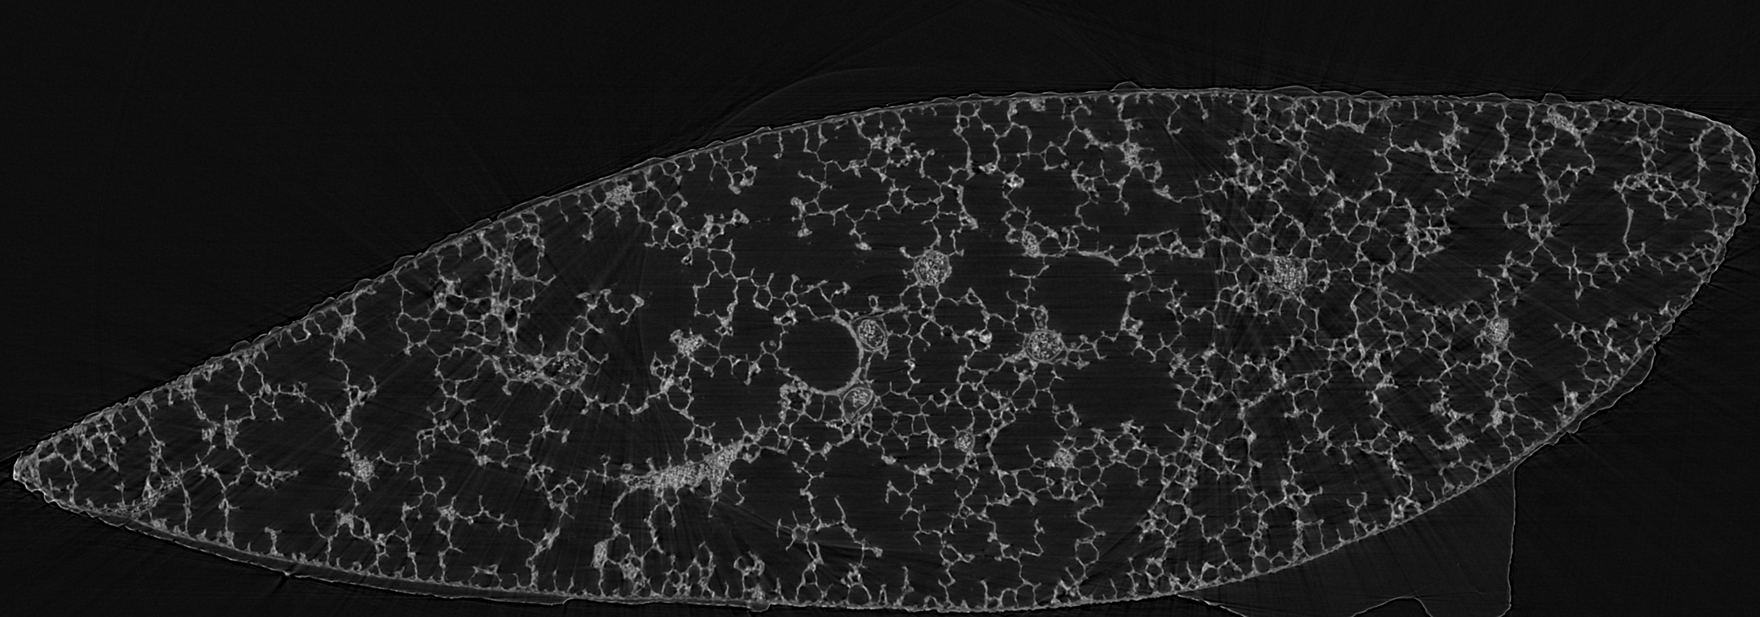
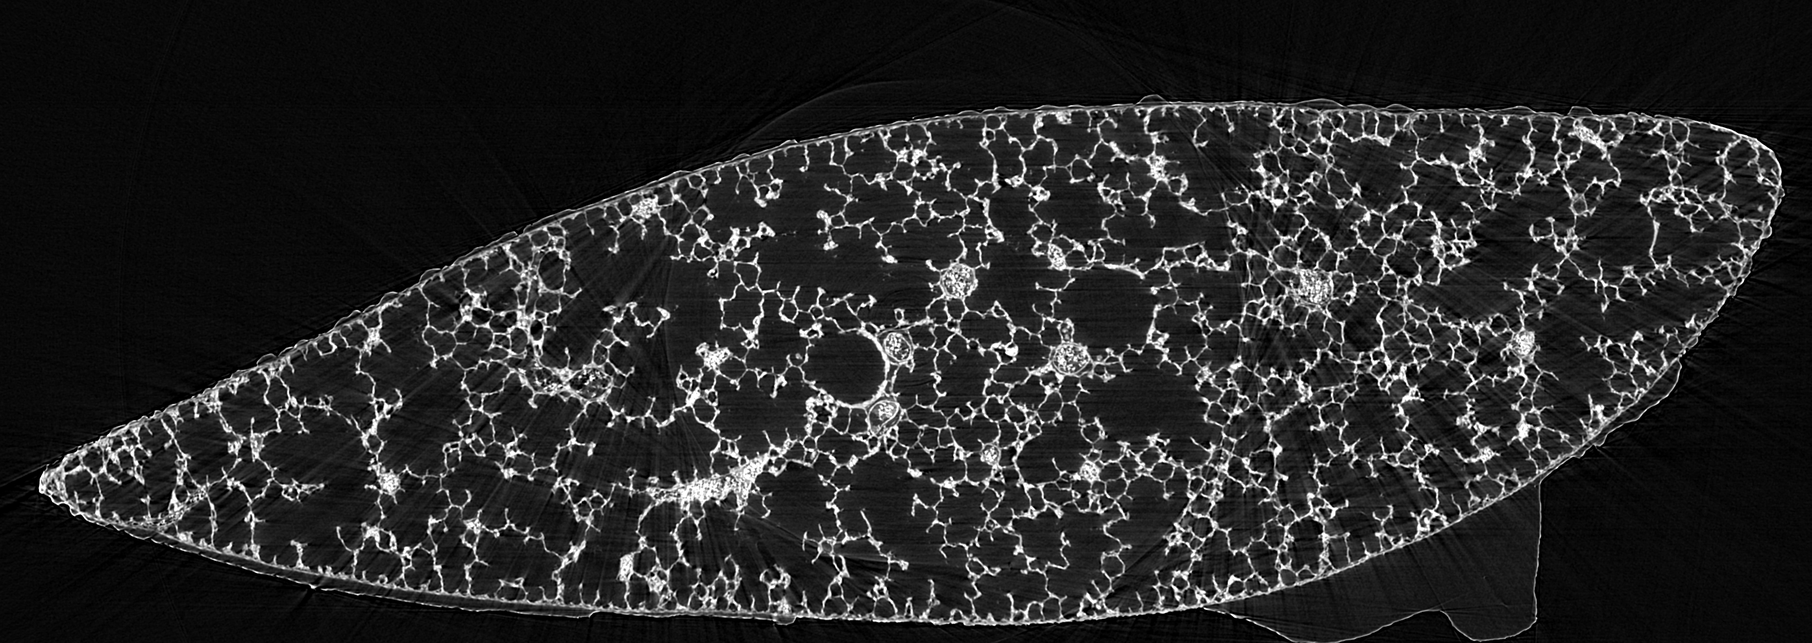
- MergedProjections.tex-Figure now includes overlapping regions in projections and TikZ-drawn circles to see the overlap in the reconstructed slice
git-svn-id: http://code.ana.unibe.ch/svn/WideFieldScanPaper@154 1e09dd5d-36e2-4d60-b258-626281e6a704

Changed region(s): [[0.0, 0.1218, 1.0, 1.0], [0.8053, 0.9443, 0.8673, 1.0], [0.7743, 0.9443, 0.8053, 0.9748]]

diff --git a/wfs-materials-and-methods.tex b/wfs-materials-and-methods.tex
@@ -58,7 +58,7 @@ The full work flow from image acquisition to tomographic dataset on the disk con
 \label{subsec:covering a broad fov}
 For parallel beam geometry, tomographic images are obtained by rotating the sample over \SI{180}{\degree} and acquiring images equidistantly between \SI{0}{\degree} and \SI{180}{\degree}, as shown in figure~\ref{subfig:scanning-possibilities}. After reconstruction the width of the image corresponds to the FOV of the camera.
 
-If the sample to be imaged is larger than the available FOV of the camera (up to twice as large as the FOV), a \SI{360}{\degree}-scan is performed. Projections are obtained over a full rotation of the sample, while the sample is positioned in front of the camera in such a way that it only covers half the FOV of the detector. After acquisition of the projection images, half of the dataset has to be flipped and the projections at position $P_{x}$ and $P_{x+\SI{180}{\degree}}$ are stitched together to projection images covering two times the FOV of the camera.
+If the sample to be imaged is larger than the available FOV of the camera (up to twice as large as the FOV), a \SI{360}{\degree}-scan is performed. Projections are obtained over a full rotation of the sample, while the sample is positioned in front of the camera in such a way that it only covers half the FOV of the detector. After acquisition of the projection images, half of the dataset has to be flipped and the projections at position $P_{x}$ and \[P_{x+\SI{180}{\degree}}\] are stitched together to projection images covering two times the FOV of the camera.
 
 \begin{figure*}
 	\noindent\makebox[\textwidth]{%
@@ -110,7 +110,7 @@ To be able to reconstruct the sample, we need to stitch the individual sets of p
 \cbstart
 Since the total acquisition time per sample scales with the total amount of recorded projections, such an oversampling is undesired, since the time spent recording unnecessary projections is essentially wasted during precious beam-time shifts. To avoid this, acquisition protocols with varying amount of projections for each of the three subscans have been designed, so the scanning time per sample can be reduced compared to a gold standard scan.
 
-As a consequence from the differing amount of projections, we needed to devise a protocols which would facilitate the interpolation and merging of the projections from each subscan. Several protocols have been defined where the amount of projections from the inner ($N_{inner}$) to the outer subscans ($N_{outer}$ is always a multiple of two:$\frac{N_{outer}}{N_{inner}} \bmod 2 = 0$.
+As a consequence from the differing amount of projections, we needed to devise a protocols which would facilitate the interpolation and merging of the projections from each subscan. Several protocols have been defined where the amount of projections from the inner ($N_{inner}$) to the outer subscans ($N_{outer}$ is always a multiple of two:\[\frac{N_{outer}}{N_{inner}} \bmod 2 = 0\].
 
 This approach facilitates the merging of the different subscans in such a way that we can stitch several projections from the inner subscan with projections from the outer subscans. If the amount of projections would not be a multiple of two, such a stitching would introduce additional processing steps to correctly stitch the projections or interpolate intermediate projections. \cbend Figure \ref{fig:amount of projections} shows how the projections from the different subscans relate to each other in the more complex case. In this case we would acquire 1500 projections for the central and two times 3000 projections for the two ring-scans to fully satisfy the sampling theorem while not oversampling the central part of the FOV. 
 
@@ -129,7 +129,7 @@ This approach facilitates the merging of the different subscans in such a way th
 \subsubsection{Generation of multiple scanning protocols}
 To be able to further reduce the total scanning time, we developed different scanning protocols, which all relate to a gold standard protocol. Such a gold standard scan would cover the desired FOV while fulfilling the sampling theorem, as shown in figure~\ref{subfig:fovneed}. For this example we would like to achieve a FOV of 3072$\times$3072 pixels. The dark gray circle shown in aforementioned figure is the FOV that can be fully covered, the rest of the slice in light grey would be either missing or show artifacts arising from partial volume effects, depending on the chosen reconstruction algorithm. To cover this desired FOV without a standard scan obtained from a detector with the size of 1024 pixels, nine independent scans would be needed. Acquiring nine independent scans would show exactly the same ration of coverage vs.\ potentially missing parts, but some of the missing parts would be lying inside the desired FOV, which can be seen in the light gray parts figure~\ref{subfig:goldstandard} inside the ring covering the desired FOV. Nonetheless, this is the gold standard, we defined as standard protocol A shown in table~\ref{tab:projections}. Figure~\ref{subfig:protocolb} shows how the desired FOV can be covered with a wide-field scan obtained from merged projections as described above. No missing parts arising from partial volume effects are lying inside the desired FOV.
 
-To fully satisfy the sampling theorem for a scan with the detector width $D$ we need to acquire an amount of projections $P=D\frac{\pi}{2}$, which leads to the acquisition of totally 14476 projections for the setup shown in figure~\ref{subfig:goldstandard}. For the scan shown in figure~\ref{subfig:protocolb} we also need to acquire 14476 projections, since we need to acquire three times $3072\frac{\pi}{2}$ projections if the single projections from each subscan are to be merged into one projections covering the FOV prior to reconstruction.
+To fully satisfy the sampling theorem for a scan with the detector width $D$ we need to acquire an amount of projections \[P=D\frac{\pi}{2}\], which leads to the acquisition of totally 14476 projections for the setup shown in figure~\ref{subfig:goldstandard}. For the scan shown in figure~\ref{subfig:protocolb} we also need to acquire 14476 projections, since we need to acquire three times \[3072\frac{\pi}{2}\] projections if the single projections from each subscan are to be merged into one projections covering the FOV prior to reconstruction.
 \cbend
 
 \cbstart
@@ -163,7 +163,7 @@ After the user has chosen a suitable protocol which balances the requirements fo
 	\todo[inline]{maybe use ``this'' plot instead of fig.~\ref{fig:2008c-qualityplot}, since only the 19 really scanned protocols are shown?}
 \end{figure*}
 \cbstart
-Table~\ref{tab:projections} provides the numbers for 19 real-world examples that have been scanned from a quality-plot corresponding to the one shown in figure~\ref{fig:2008c-qualityplot}. Protocol A would correspond to the scanning configuration shown in figure~\ref{subfig:goldstandard}, which would require nine independent reconstructions and stitching of the resulting small reconstructions into one big slice. As shown above, we can equally satisfy the sampling theorem when enough projections are acquired for a simulated detector size that is three times the real detector size of 1024 pixels, so protocol A was omitted for this study. Including an overlap of 100 pixels between the central and the ring scan, we need to acquire $N_{B}=15419$ projections for the gold-standard protocol B ($N_{B}=3(3072+200)\frac{\pi}{2}$). All the other protocols from C--T have been linearly scaled down with a decreasing percentage of acquired total projections of the gold standard. The difference of total amount of projections resulting from this scaling to the amount of projections shown in the table arises through the fact that the amount of projections for each subscan has been chosen in such a way, that the stitching of the projections was possible, hence the small differences in total amount of scanned to total amount of calculated projections.
+Table~\ref{tab:projections} provides the numbers for 19 real-world examples that have been scanned from a quality-plot corresponding to the one shown in figure~\ref{fig:2008c-qualityplot}. Protocol A would correspond to the scanning configuration shown in figure~\ref{subfig:goldstandard}, which would require nine independent reconstructions and stitching of the resulting small reconstructions into one big slice. As shown above, we can equally satisfy the sampling theorem when enough projections are acquired for a simulated detector size that is three times the real detector size of 1024 pixels, so protocol A was omitted for this study. Including an overlap of 100 pixels between the central and the ring scan, we need to acquire $N_{B}=15419$ projections for the gold-standard protocol B (\[N_{B}=3(3072+200)\frac{\pi}{2}\]). All the other protocols from C--T have been linearly scaled down with a decreasing percentage of acquired total projections of the gold standard. The difference of total amount of projections resulting from this scaling to the amount of projections shown in the table arises through the fact that the amount of projections for each subscan has been chosen in such a way, that the stitching of the projections was possible, hence the small differences in total amount of scanned to total amount of calculated projections.
 
 We were able to reduce the total acquisition time by \SI{86.25}{\percent} compared to the gold standard, as can be seen in table~\ref{tab:projections}. All 19 protocols have been scanned, reconstructed and visualized three-dimensionally to assess the artifacts which arise through the reduction of the amount of projections. Albeit the maximally assessed reduction in scanning time by \SI{86.25}{\percent} does introduce visible artifacts in the three-dimensional reconstruction (as shown in figure~\ref{fig:BvsT2}), an automated segmentation of the airways is still possible.
 \cbend
@@ -238,7 +238,7 @@ We were able to reduce the total acquisition time by \SI{86.25}{\percent} compar
 		Time [\%] & 34.38 & 33.00 & 27.50 & 24.77 & 16.50 & 13.75 \\
 		\bottomrule%
 	\end{tabular*}%
-	\label{tab:projections}%
+	\label{tab:protocols}%
 \end{table}%
 \cbend
 
@@ -282,7 +282,7 @@ After acquisition of the three subscans per protocol, custom MATLAB functions re
 
 Using the Radon transformation~\cite{Radon1917}, the corrected and merged projections were transformed into so-called sinograms, where the $n$\textsuperscript{th} is composed of the $n$\textsuperscript{th} line of every corrected projection. One sinogram thus contains as many rows as the amount of obtained corrected projections---the angular steps---and as many columns as the width of the merged projection images, thus covering an increased FOV. Each sinogram corresponds to one slice of the tomographic dataset. The $n$\textsuperscript{th} slice of the tomographic scan was reconstructed from the $n$\textsuperscript{th} sinogram using an FFT-based gridrec~\cite{Dowd1999} algorithm.
 
-The merged projections were reconstructed on a 20-node server farm (five \SI{64}{\bit} Opteron machines with 4 cores and \SI{8}{\giga\byte} RAM each). The reconstructions result in an image stack covering a large sample volume of approximately 3000$\times$3000$\times$1024 pixels, a nine-fold increase from the standard volume of 1024$\times$1024$\times$1024 pixels for one single scan.
+The merged projections were reconstructed on a 20-node server farm (five \SI{64}{\bit} Opteron machines with 4 cores and \SI{8}{\giga\byte} RAM each). The reconstructions result in an image stack covering a large sample volume of 2793$\times$2793$\times$1024 pixels, an approximately nine-fold increase from the standard volume of 1024$\times$1024$\times$1024 pixels for one single scan.
 \cbend
-
-The reconstructions used for the assessment of the image quality of the 19 different scanned protocols of the same sample show a three-fold (2.93\(\times\)) increase in FOV from 1024\(\times\)1024 pixels to 2996\(\times\)2996 pixels. As a proof of concept, we also scanned and reconstructed a lung sample with 5 subscans, which led to a roughly five-fold (4.74\(\times\)) increase in available FOV from 2048\(\times\)2048 pixels to 9703\(\times\)9703 pixels (see figure~\ref{fig:LungSlabSophie}).
+%
+%The reconstructions used for the assessment of the image quality of the 19 different scanned protocols of the same sample show a three-fold (2.93\(\times\)) increase in FOV from 1024\(\times\)1024 pixels to 2793\(\times\)2793 pixels.

diff --git a/img/merge/MergedProjections.tex b/img/merge/MergedProjections.tex
@@ -1,58 +1,120 @@
-\documentclass{article}
-\usepackage{subfig}
-\usepackage{tikz}
-\usepackage{siunitx}
-\begin{document}
-\newcommand{\imsize}{\linewidth}
-\newlength\imagewidth % needed for scalebars
-\newlength\imagescale % needed for scalebars
-\begin{figure*}
-\centering
+%\documentclass{article}
+%\usepackage{subfig}
+%\usepackage{tikz}
+%\usepackage{siunitx}
+%\begin{document}
+%\newcommand{\imsize}{\linewidth}
+%\newlength\imagewidth % needed for scalebars
+%\newlength\imagescale % needed for scalebars
+%\begin{figure}
+%	\centering
 %%%%%%%%%%%%%%%%%%%%%%%%%%%%%
-	\renewcommand{\imsize}{.16\linewidth}
+	\renewcommand{\imsize}{.33\linewidth}
 	\pgfmathsetlength{\imagewidth}{\imsize} % desired display width of image
-	\pgfmathsetlength{\imagescale}{\imagewidth/512} % pixel width of image
+	\pgfmathsetlength{\imagescale}{\imagewidth/1024} % pixel width of image
 	\centering
-		\subfloat[Uncorrected projection images from subscans s$_1$--s$_3$, each with a size of 1024\(\times\)1024 pixels at a resolution of \SI{1.4}{\micro\meter\per pixel}, covering a FOV of approximately \SI{0.7}{\milli\meter}. The subscans s$_1$--s$_3$ overlap each other by approximately 150 pixels. 4676 projections have been acquired for the subscans s$_1$ and s$_3$, 1169 projections have been acquired for subscan s$_2$, all over a rotation of \SI{180}{\degree}.]{%
+		\subfloat[Three uncorrected and independent projection images from subscans s$_1$--s$_3$, each with a size of 1024\(\times\)1024 pixels at a resolution of \SI{1.48}{\micro\meter\per pixel}, each covering a FOV of \SI{1.52}{\milli\meter}. Subscans s$_1$ and s$_2$ overlap each other by 141 pixels (red and green overlay), subscans s$_2$ and s$_3$ overlap each other by 138 pixels (blue and yellow overlay). 5244 projections  over a rotation of \SI{180}{\degree} have been acquired for all subscans.]{%
 			\label{fig:s1}%
-			\includegraphics[width=\imsize]{R108C10B-s1}%
-			\includegraphics[width=\imsize]{R108C10B-s2}%
-			\begin{tikzpicture}[x=\imagescale,y=-\imagescale]
+			% --------------------------------------------------------------
+			% Cutline between SubScan 1 and 2: 141 pixels
+			% Cutline between SubScan 2 and 3: 138 pixels
+			% --------------------------------------------------------------
+			\begin{tikzpicture}[x=\imagescale,y=-\imagescale]%
+				\node[anchor=north west,inner sep=0pt,outer sep=0pt] at (0,0)%
+					{\includegraphics[width=\imagewidth]{R108C21Cb_s13358_normalize}};%
+				\def\overlap{141}%
+				\fill [red, nearly transparent] (1024-\overlap,1) rectangle (1024,1024);%
+				\draw (1024-\overlap,1) rectangle (1024,1024);%
+			\end{tikzpicture}%
+			\begin{tikzpicture}[x=\imagescale,y=-\imagescale]%
+				\node[anchor=north west,inner sep=0pt,outer sep=0pt] at (0,0)%
+					{\includegraphics[width=\imagewidth]{R108C21Cb_s23358_normalize}};%
+				\def\overlap{141}%
+				\fill [green, nearly transparent] (1,1) rectangle (\overlap,1024);%
+				\draw (1,1) rectangle (\overlap,1024);%
+				\def\overlap{138}%
+				\fill [blue, nearly transparent] (1024-\overlap,1) rectangle (1024,1024);%
+				\draw (1024-\overlap,1) rectangle (1024,1024);%
+			\end{tikzpicture}%
+			\begin{tikzpicture}[x=\imagescale,y=-\imagescale]%
 				% place image (integer coordinates refer to pixel centers):
-				\node[anchor=north west,inner sep=0pt,outer sep=0pt] at (0,0)
-					{\includegraphics[width=\imagewidth]{R108C10B-s3}};
-				\draw[|-|,color=white] (256-64,450) -- (512-64,450) node[midway,above] {\SI{700}{\micro\meter}};
-			\end{tikzpicture}
-			\label{fig:subscans}
-			}
-		\renewcommand{\imsize}{.48\linewidth}
+				\node[anchor=north west,inner sep=0pt,outer sep=0pt] at (0,0)%
+					{\includegraphics[width=\imagewidth]{R108C21Cb_s33358_normalize}};%
+				\def\overlap{138}%
+				\fill [yellow, nearly transparent] (1,1) rectangle (\overlap,1024);%
+				\draw (1,1) rectangle (\overlap,1024);%
+				\draw[|-|,color=white] (1,200) -- (1024,200) node [midway,above] {\SI{1.51552}{\milli\meter}};%
+				\def\x{924}% 1024 - 100
+				\def\y{922}% 1024 * .9 = 921.6
+				\def\bar{338}% 100 px = 148 um
+				\draw[|-|,color=white] (\x-\bar,\y) -- (\x,\y) node [midway,above] {\SI{500}{\micro\meter}};%
+			\end{tikzpicture}%
+			\label{fig:subscans}%
+			}\\%
+		\renewcommand{\imsize}{\linewidth}%
 		\pgfmathsetlength{\imagewidth}{\imsize} % desired displayed width of image
-		\pgfmathsetlength{\imagescale}{\imagewidth/1498} % pixel width of image
-		\subfloat[Merged and corrected image from the three subscans shown in subfigure~\subref{fig:subscans}. The merged projections have a size of 2994\(\times\)1024 pixels at a resolution of \SI{1.4}{\micro\meter\per pixel}. The width of the merged projections is slightly smaller than three times the width of the subscans.]{%
-			\begin{tikzpicture}[x=\imagescale,y=-\imagescale]
-				\node[anchor=north west,inner sep=0pt,outer sep=0pt] at (0,0)
-					{\includegraphics[width=\imagewidth]{R108C10B-merge}};
-				\draw[|-|,color=white] (1242-64,450) -- (1498-64,450) node[midway,above] {\SI{700}{\micro\meter}};
-			\end{tikzpicture}
-			\label{fig:merge-proj}
-			}
-		\renewcommand{\imsize}{\linewidth}
-		\pgfmathsetlength{\imagewidth}{\imsize} % desired displayed width of image
-		\pgfmathsetlength{\imagescale}{\imagewidth/1365} % pixel width of image (image has been resized from 2994*1123, so that scalebar is at the same height without calculating too much...)
-		\subfloat[Cropped part of one slice of the tomographic dataset reconstructed from the merged projections shown in subfigure~\subref{fig:merge-proj}. Around the sample the air-to-paraffin interface is visible due to the coherence of the x-ray beam. The bright circular shape inscribed in the square arises from the filtered back-projection, the chosen reconstruction method. The size of the cropped image is 2994\(\times\)1123 pixels. The inset shows an overview over the full slice with a size of 2994\(\times\)2994 pixels.]{%
-			\begin{tikzpicture}[x=\imagescale,y=-\imagescale]
+		\pgfmathsetlength{\imagescale}{\imagewidth/2793}% pixel width of image
+		\subfloat[Merged and corrected image from the three subscans shown in subfigure~\subref{fig:subscans}. Each merged projection has a size of 2793\(\times\)1024 pixels at a resolution of \SI{1.48}{\micro\meter\per pixel}. The width of the merged projections is slightly smaller than three times the width of the subscans due to the overlap needed to merge the projections (2793~px$=3\cdot3072$~px$-141$~px$-138$~px). Since the x-ray beam is extremely stable, the bands visible in the raw projections can be eliminated.]{%
+			\begin{tikzpicture}[x=\imagescale,y=-\imagescale]%
+				\node[anchor=north west,inner sep=0pt,outer sep=0pt] at (0,0)%
+					{\includegraphics[width=\imagewidth]{R108C21Cb_mrg3333_normalize}};%
+				\def\x{2693} % 2793-100
+				\def\y{922} % 1024*.9 = 921.6
+				\def\bar{338} % 100 px = 148 um
+				\draw[|-|,color=white] (1,256) -- (2792,256) node [midway,above] {\SI{4.13364}{\milli\meter}};
+				\draw[|-|,color=white] (\x-\bar,\y) -- (\x,\y) node [midway,above] {\SI{500}{\micro\meter}};
+				\end{tikzpicture}%
+			\label{fig:merge-proj}%
+			}\\%
+		\renewcommand{\imsize}{\linewidth}%
+		\pgfmathsetlength{\imagewidth}{\imsize}% desired displayed width of image
+		\pgfmathsetlength{\imagescale}{\imagewidth/2792}% pixel width of image (image has been resized from 2994*1123, so that scalebar is at the same height without calculating too much...)
+		\subfloat[Cropped part of one slice of the tomographic dataset reconstructed from 5244 merged projections shown in subfigure~\subref{fig:merge-proj}. Due to the coherence of the x-ray beam the air-to-paraffin interface is visible around the sample.]{%
+			\begin{tikzpicture}[x=\imagescale,y=-\imagescale]%
 				% place image (integer coordinates refer to pixel centers):
-				\node[anchor=north west,inner sep=0pt,outer sep=0pt] at (0,0)
-					{\includegraphics[width=\imagewidth]{R108C10B-merge1016-crop}};
-				\newcommand{\size}{.2\imagewidth}
-				\node[anchor=north west,inner sep=0pt,outer sep=0pt] at (0,0)
-					{\includegraphics[width=\size]{R108C10B-merge1016}};
-					\draw[white] (\size,0) -- (\size,-\size) -- (0,-\size);				\draw[|-|,color=white] (1109-64,450) -- (1365-64,450) node[midway,above] {\SI{700}{\micro\meter}};
-			\end{tikzpicture}
-			\label{fig:merge-rec}
-			}
+				\node [anchor=north west,inner sep=0pt,outer sep=0pt] at (0,0)%
+					{\includegraphics[width=\imagewidth]{R108C21Cb_mrg1024rec8bit}};% ``mogrify -shave 0x900 -normalize -format png R108C21Cb_mrg1024rec8bit.tif''
+				\clip (0,0) rectangle (2792,992);				
+				\def\x{2692} % 2708-100
+				\def\y{893} % 992 * .9 = 892.8
+				\def\bar{338} % 100 px = 148 um
+				%%%% scalebar
+					\draw[|-|,color=white] (\x-\bar,\y) -- (\x,\y) node [midway,above] {\SI{500}{\micro\meter}};
+					\draw[|-|,color=white] (1,20) -- (2792,20) node [midway,below] {\SI{4.13216}{\milli\meter}};
+				%%%% center
+					\fill [color=red] (2792/2,992/2) circle (5);
+				%%%% big circle
+					\draw [dashed,color=red] (2792/2,992/2) circle (512);
+					\def\angle{45}
+					\draw [white,<->] (2792/2,992/2) +(\angle:0) --  node (bigto) {} +(\angle:512); 
+					\node [white] (bigfrom) at (256,256){$\frac{1024}{2}$px};
+					\draw [white,->,densely dotted] (bigfrom) to [bend left=45] (bigto);
+				%%%% big circle
+				%%%% 141px circle
+				\draw [dashed,color=red] (2792/2,992/2) circle (512-141);
+				\def\angle{45+90}
+					\draw [white,<->] (2792/2,992/2) +(\angle:0) -- node (smallto) {} +(\angle:512-141);
+					\node [white] (smallfrom) at (256,384) {$\frac{1024}{2}-141$px};
+					\draw [white,->,densely dotted] (smallfrom) to [bend left=45] (smallto);
+				%%%% 141px circle					
+%				%%%% 138px circle
+%				\draw [dashed,color=red] (2792/2,992/2) circle (512-138);
+%				\def\angle{45+90+90}
+%					\draw [white,<->] (2792/2,992/2) +(\angle:0) -- node (vsmallto) {} +(\angle:512-138);
+%					\node [white] (vsmallfrom) at (2972-768,992-512) {$\frac{1024}{2}-138$px};
+%					\draw [white,->,densely dotted] (vsmallfrom) to [bend right=45] (vsmallto);
+%				%%%% 138px circle
+				%%%% inset
+%				\newcommand{\size}{.2\imagewidth}%
+%				\clip (256,256) rectangle (512,512);
+%				\node[anchor=north west,inner sep=0pt,outer sep=0pt] at (0,0)
+%					{\includegraphics[width=\size]{R108C21Cb_mrg1024rec8bit}};
+%					\draw[white] (0,0) rectangle (\size,-\size);
+				%%%% inset
+				\end{tikzpicture}%
+			\label{fig:merge-rec}%
+			}%
 %%%%%%%%%%%%%%%%%%%%%%%%%%%%%	
-	\caption{Different stages of a wide field scan of a rat lung sample obtained from a Sprague-Dawley rat 10 days after birth, showing the distal-medial edge of the right lower lung lobe. The sample has been scanned at \SI{12.6}{\kilo\electronvolt}.}
-	\label{fig:wide field scan results}	
-\end{figure*}
-\end{document}
+%	\caption{caption}
+%\end{figure}
+%\end{document}

diff --git a/wfs-results.tex b/wfs-results.tex
@@ -20,54 +20,15 @@
 \label{sec:Results}
 \subsection{Image Merging and Reconstruction}
 \label{sec:Image Merging and Reconstruction}
-Results of the steps mentioned in section~\ref{sec:materials and methods} are shown in figure~\ref{fig:wide field scan results}. Figure~\ref{fig:subscans} shows exemplary projection images from overlapping subscans prior to correction and normalization. Figure~\ref{fig:merge-proj} shows a merged projection image prior to reconstruction and figure~\ref{fig:merge-rec} shows the end-result of such a wide field scan, a reconstructed slice of the whole sample with a FOV of \SI{2994}{pixels} (\SI{4.19}{\milli\meter}) which is approximately three times the size of what can be achieved with one single binned scan (\SI{1024}{pixels} or \SI{1.48}{\milli\meter}).
+Multiple independently acquired projection images covering the desired FOV have been merged into single projections covering the full FOV. Figure~\ref{fig:subscans} shows exemplary projection images from overlapping subscans prior to correction and normalization. Figure~\ref{fig:merge-proj} shows a merged projection image prior to reconstruction and figure~\ref{fig:merge-rec} shows one slice of the reconstructed dataset acquired from 5244 projections. Such a reconstructed slice covers a FOV of \SI{2792}{pixels} (\SI{4.13}{\milli\meter}) which is three times the size of what can be achieved with one single binned scan (\SI{1024}{pixels} or \SI{1.52}{\milli\meter}). %1024 * 1.48 um/px = 1.51552mm
 
+\cbstart
 \begin{figure*}
-	\renewcommand{\imsize}{.16\linewidth}
-	\pgfmathsetlength{\imagewidth}{\imsize} % desired display width of image
-	\pgfmathsetlength{\imagescale}{\imagewidth/512} % pixel width of image
-	\centering
-		\subfloat[Uncorrected projection images from subscans s$_1$--s$_3$, each with a size of 1024\(\times\)1024 pixels at a resolution of \SI{1.4}{\micro\meter\per pixel}, covering a FOV of approximately \SI{0.7}{\milli\meter}. The subscans s$_1$--s$_3$ overlap each other by approximately 150 pixels. 4676 projections have been acquired for the subscans s$_1$ and s$_3$, 1169 projections have been acquired for subscan s$_2$, all over a rotation of \SI{180}{\degree}.]{%
-			\label{fig:s1}%
-			\includegraphics[width=\imsize]{img/merge/R108C10B-s1}%
-			\includegraphics[width=\imsize]{img/merge/R108C10B-s2}%
-			\begin{tikzpicture}[x=\imagescale,y=-\imagescale]
-				% place image (integer coordinates refer to pixel centers):
-				\node[anchor=north west,inner sep=0pt,outer sep=0pt] at (0,0)
-					{\includegraphics[width=\imagewidth]{img/merge/R108C10B-s3}};
-				\draw[|-|,color=white] (256-64,450) -- (512-64,450) node[midway,above] {\SI{700}{\micro\meter}};
-			\end{tikzpicture}
-			\label{fig:subscans}
-			}
-		\renewcommand{\imsize}{.48\linewidth}
-		\pgfmathsetlength{\imagewidth}{\imsize} % desired displayed width of image
-		\pgfmathsetlength{\imagescale}{\imagewidth/1498} % pixel width of image
-		\subfloat[Merged and corrected image from the three subscans shown in subfigure~\subref{fig:subscans}. The merged projections have a size of 2994\(\times\)1024 pixels at a resolution of \SI{1.4}{\micro\meter\per pixel}. The width of the merged projections is slightly smaller than three times the width of the subscans.]{%
-			\begin{tikzpicture}[x=\imagescale,y=-\imagescale]
-				\node[anchor=north west,inner sep=0pt,outer sep=0pt] at (0,0)
-					{\includegraphics[width=\imagewidth]{img/merge/R108C10B-merge}};
-				\draw[|-|,color=white] (1242-64,450) -- (1498-64,450) node[midway,above] {\SI{700}{\micro\meter}};
-			\end{tikzpicture}
-			\label{fig:merge-proj}
-			}
-		\renewcommand{\imsize}{\linewidth}
-		\pgfmathsetlength{\imagewidth}{\imsize} % desired displayed width of image
-		\pgfmathsetlength{\imagescale}{\imagewidth/1365} % pixel width of image (image has been resized from 2994*1123, so that scalebar is at the same height without calculating too much...)
-		\subfloat[Cropped part of one slice of the tomographic dataset reconstructed from the merged projections shown in subfigure~\subref{fig:merge-proj}. Around the sample the air-to-paraffin interface is visible due to the coherence of the x-ray beam. The bright circular shape inscribed in the square arises from the filtered back-projection, the chosen reconstruction method. The size of the cropped image is 2994\(\times\)1123 pixels. The inset shows an overview over the full slice with a size of 2994\(\times\)2994 pixels.]{%
-			\begin{tikzpicture}[x=\imagescale,y=-\imagescale]
-				% place image (integer coordinates refer to pixel centers):
-				\node[anchor=north west,inner sep=0pt,outer sep=0pt] at (0,0)
-					{\includegraphics[width=\imagewidth]{img/merge/R108C10B-merge1016-crop}};
-				\newcommand{\size}{.2\imagewidth}
-				\node[anchor=north west,inner sep=0pt,outer sep=0pt] at (0,0)
-					{\includegraphics[width=\size]{img/merge/R108C10B-merge1016}};
-					\draw[white] (\size,0) -- (\size,-\size) -- (0,-\size);				\draw[|-|,color=white] (1109-64,450) -- (1365-64,450) node[midway,above] {\SI{700}{\micro\meter}};
-			\end{tikzpicture}
-			\label{fig:merge-rec}
-			}
-	\caption{Different stages of a wide field scan of a rat lung sample obtained from a Sprague-Dawley rat 10 days after birth, showing the distal-medial edge of the right lower lung lobe. The sample has been scanned at \SI{12.6}{\kilo\electronvolt}.}
+	\input{img/merge/MergedProjections}
+	\caption{Different stages of a wide field scan of a rat lung sample obtained from a Sprague-Dawley rat 21 days after birth, showing the distal-medial edge of the right lower lung lobe. The sample has been scanned at \SI{12.6}{\kilo\electronvolt}, the images are taken from protocol B, described in table~\ref{tab:protocols}.}
 	\label{fig:wide field scan results}	
 \end{figure*}
+\cbend
 
 \subsection{Increasing the FOV}
 With the FOV available up to now at TOMCAT we have only been able to fit partial acini inside our datasets. Increasing the available FOV three times allows us to obtain three dimensional reconstructions of entire acini which are only restricted by sample size, but not by the FOV of the imaging method. When comparing the green and red airway segments in figures~\ref{fig:FOV increase overview} and \ref{fig:FOV increase segments} with each other, we can see that with the conventional tomographic imaging, both segments are only partially in the FOV. We need to increase the FOV to be able to see the full central acinus inside the lung tissue. With the increased FOV we additionally see a third acinus (yellow segment) inside the lung segment. Both the red and yellow segment are only partial acini, but their size is limited by the dimensions of the lung sample, not by the FOV. The cutting lines are visible in the underside view of the wide field scanning visualization (Figure~\ref{subfig:down-merge}).
@@ -296,7 +257,7 @@ The 19 different protocols which have been obtained from the same sample have be
 
 The two protocols shown in figure~\ref{fig:BvsT} are the two extremes of the 19 obtained protocols. The dataset shown on the left (B) has been reconstructed from 5244 merged projection images, the dataset shown on the right (T) has been reconstructed using only 874 merged slices. Albeit we have scanned protocol T while violating the sampling theorem, both samples still look nearly identical in the three dimensional visualization. Except for small differences at the most lateral parts of the sample (yellow segment) the segmented airways are identical, even if the scanning time of protocol T has been reduced to \SI{14}{\percent} of the scanning time of protocol B\todo{elaborate a bit more on this\ldots}.
 
-As a proof of concept we have extended the FOV from three to five subscans. We have been able to reconstruct a sample with size of approximately 0.4\(\times\)3.4\(\times\)\SI{0.7}{\milli\meter} at a voxel side length of \SI{0.7}{\micro\meter}, see figure~\ref{fig:LungSlabSophie}\todo{Compare the red and green cube $\rightarrow$ artefacts at lateral parts}.
+As a proof of concept, we also scanned and reconstructed a lung sample with 5 subscans, which led to a roughly five-fold (4.74\(\times\)) increase in available FOV from 2048\(\times\)2048 pixels to 9703\(\times\)9703 pixels (see figure~\ref{fig:LungSlabSophie}). We have been able to reconstruct a sample with size of approximately 0.4\(\times\)3.4\(\times\)\SI{0.7}{\milli\meter} at a voxel side length of \SI{0.7}{\micro\meter}, see figure~\ref{fig:LungSlabSophie}\todo{Compare the red and green cube $\rightarrow$ artefacts at lateral parts}.
 
 \begin{figure*}
 	\renewcommand{\imsize}{\textwidth}
